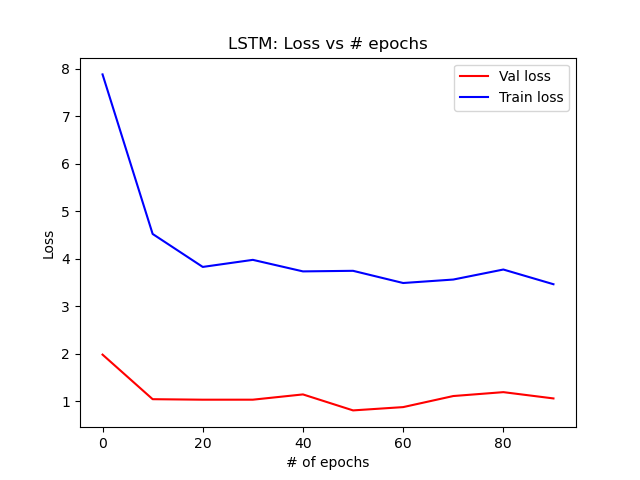
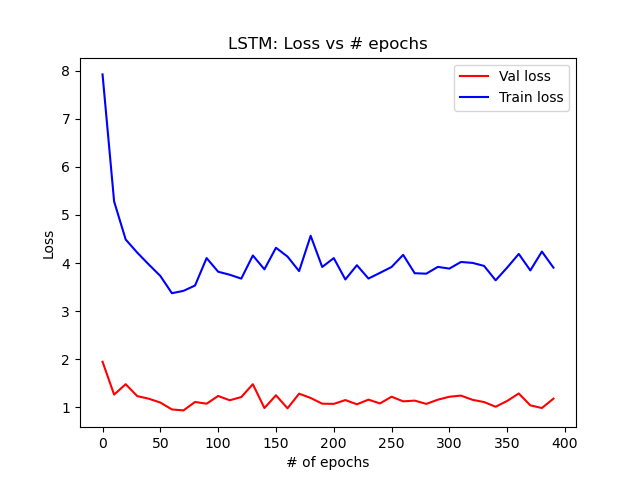
execucio amb gpu

diff --git a/LSTM-Music-Genre-Classification-master/LSTM-Music-Genre-Classification-master/lstm_genre_classifier_pytorch.py b/LSTM-Music-Genre-Classification-master/LSTM-Music-Genre-Classification-master/lstm_genre_classifier_pytorch.py
@@ -25,23 +25,6 @@ from GenreFeatureData import (
     GenreFeatureData,
 )  # local python class with Audio feature extraction (librosa)
 
-class EarlyStopper:
-    def __init__(self, patience=1, min_delta=0):
-        self.patience = patience
-        self.min_delta = min_delta
-        self.counter = 0
-        self.min_validation_loss = np.inf
-
-    def early_stop(self, validation_loss):
-        if validation_loss < self.min_validation_loss:
-            self.min_validation_loss = validation_loss
-            self.counter = 0
-        elif validation_loss > (self.min_validation_loss + self.min_delta):
-            self.counter += 1
-            if self.counter >= self.patience:
-                return True
-        return False
-
 # class definition
 class LSTM(nn.Module):
     def __init__(self, input_dim, hidden_dim, batch_size, output_dim=8, num_layers=2):
@@ -60,15 +43,18 @@ class LSTM(nn.Module):
         # setup output layer
         self.linear = nn.Linear(self.hidden_dim, output_dim)
 
-    def forward(self, input, hidden=None):
+    def forward(self, input, h, c):
         # lstm step => then ONLY take the sequence's final timetep to pass into the linear/dense layer
         # Note: lstm_out contains outputs for every step of the sequence we are looping over (for BPTT)
         # but we just need the output of the last step of the sequence, aka lstm_out[-1]
-        lstm_out, hidden = self.lstm(input, hidden)
-        logits = self.batch(lstm_out[-1])
-        logits = self.linear(logits)              # equivalent to return_sequences=False from Keras
-        genre_scores = F.log_softmax(logits, dim=1)
-        return genre_scores, hidden
+        out, (h, c) = self.lstm(input, (h, c))
+        out = self.batch(out[-1])
+        out = self.linear(out)
+        return out, h, c
+    
+    def init_hidden(self, batch_size):
+        " Initialize the hidden state of the RNN to zeros"
+        return nn.Parameter(torch.zeros(self.num_layers, batch_size, self.hidden_dim)), nn.Parameter(torch.zeros(self.num_layers, batch_size, self.hidden_dim))
 
     def get_accuracy(self, logits, target):
         """ compute accuracy for training round """
@@ -115,7 +101,7 @@ def main():
     print("Test Y shape: " + str(genre_features.test_Y.shape))
 
     batch_size = 35  # num of training examples per minibatch
-    num_epochs = 100 #400
+    num_epochs = 400
 
     # Define model
     print("Build LSTM RNN model ...")
@@ -123,7 +109,7 @@ def main():
         input_dim=33, hidden_dim=128, batch_size=batch_size, output_dim=8, num_layers=2
     )
 
-    loss_function = nn.NLLLoss()  # expects ouputs from LogSoftmax
+    loss_function = nn.CrossEntropyLoss()     #nn.NLLLoss()  # expects ouputs from LogSoftmax
 
     optimizer = optim.Adam(model.parameters(), lr=0.001, weight_decay = 0.1)
 
@@ -136,8 +122,8 @@ def main():
     else:
         print("\nNo GPU, training on CPU")
 
-    # device = torch.device("cuda:0" if torch.cuda.is_available() else "cpu")
-    # model.to(device)
+    device = torch.device("cuda:0" if torch.cuda.is_available() else "cpu")
+    model = model.to(device)
 
     # all training data (epoch) / batch_size == num_batches (12)
     num_batches = int(train_X.shape[0] / batch_size)
@@ -149,20 +135,22 @@ def main():
     print("Training ...")
 
     #Inicialització random i normalitzada
-    for name, w in model.named_parameters():
-        if "weight" in name:
-            nn.init.xavier_uniform_(w)
+    # for name, w in model.named_parameters():
+    #     if "weight_ih" in name:
+    #         nn.init.xavier_uniform(w.data)
         
-        if "bias" in name:
-            nn.init.zeros_(w) 
+    #     if "bias" in name:
+    #         nn.init.zeros_(w.data) 
 
     for epoch in range(num_epochs):
 
         train_running_loss, train_acc = 0.0, 0.0
 
         # Init hidden state - if you don't want a stateful LSTM (between epochs)
-        hidden_state = None
+        h_0, c_0 = model.init_hidden(batch_size)
+
         for i in range(num_batches):
+            h_0, c_0 = h_0.to(device), c_0.to(device)
 
             # zero out gradient, so they don't accumulate btw batches
             model.zero_grad()
@@ -176,22 +164,18 @@ def main():
                 train_X[i * batch_size: (i + 1) * batch_size, ],
                 train_Y[i * batch_size: (i + 1) * batch_size, ],
             )
-
             # Reshape input & targets to "match" what the loss_function wants
             X_local_minibatch = X_local_minibatch.permute(1, 0, 2)
 
             # NLLLoss does not expect a one-hot encoded vector as the target, but class indices
             y_local_minibatch = torch.max(y_local_minibatch, 1)[1]
 
-            y_pred, hidden_state = model(X_local_minibatch, hidden_state)  # forward pass
+            X_local_minibatch, y_local_minibatch = X_local_minibatch.to(device), y_local_minibatch.to(device)
+            
+            y_pred, h_0, c_0 = model(X_local_minibatch, h_0, c_0)  # forward pass
 
             # Stateful = False for training. Do we go Stateful = True during inference/prediction time?
-            if not stateful:
-                hidden_state = None
-            else:
-                h_0, c_0 = hidden_state
-                h_0.detach_(), c_0.detach_()
-                hidden_state = (h_0, c_0)
+            h_0.detach_(), c_0.detach_()
 
             loss = loss_function(y_pred, y_local_minibatch)  # compute loss
             loss.backward()  # backward pass
@@ -201,7 +185,7 @@ def main():
             train_acc += model.get_accuracy(y_pred, y_local_minibatch)
 
         print(
-            "Epoch:  %d | NLLoss: %.4f | Train Accuracy: %.2f"
+            "Epoch:  %d | Loss: %.4f | Train Accuracy: %.2f"
             % (epoch, train_running_loss / num_batches, train_acc / num_batches)
         )
 
@@ -213,18 +197,25 @@ def main():
             with torch.no_grad():
                 model.eval()
 
-                hidden_state = None
+                h_0, c_0 = model.init_hidden(batch_size)                
+                
                 for i in range(num_dev_batches):
+
+                    h_0, c_0 = h_0.to(device), c_0.to(device)
+
                     X_local_validation_minibatch, y_local_validation_minibatch = (
                         dev_X[i * batch_size: (i + 1) * batch_size, ],
                         dev_Y[i * batch_size: (i + 1) * batch_size, ],
                     )
+
                     X_local_minibatch = X_local_validation_minibatch.permute(1, 0, 2)
                     y_local_minibatch = torch.max(y_local_validation_minibatch, 1)[1]
 
-                    y_pred, hidden_state = model(X_local_minibatch, hidden_state)
-                    if not stateful:
-                        hidden_state = None
+                    X_local_minibatch, y_local_minibatch = X_local_minibatch.to(device), y_local_minibatch.to(device)
+
+                    y_pred, h_0, c_0 = model(X_local_minibatch, h_0, c_0)
+                    # if not stateful:
+                    #     hidden_state = None
 
                     val_loss = loss_function(y_pred, y_local_minibatch)
 
@@ -235,7 +226,7 @@ def main():
 
                 model.train()  # reset to train mode after iterationg through validation data
                 print(
-                    "Epoch:  %d | NLLoss: %.4f | Train Accuracy: %.2f | Val Loss %.4f  | Val Accuracy: %.2f"
+                    "Epoch:  %d | Loss: %.4f | Train Accuracy: %.2f | Val Loss %.4f  | Val Accuracy: %.2f"
                     % (
                         epoch,
                         train_running_loss / num_batches,
